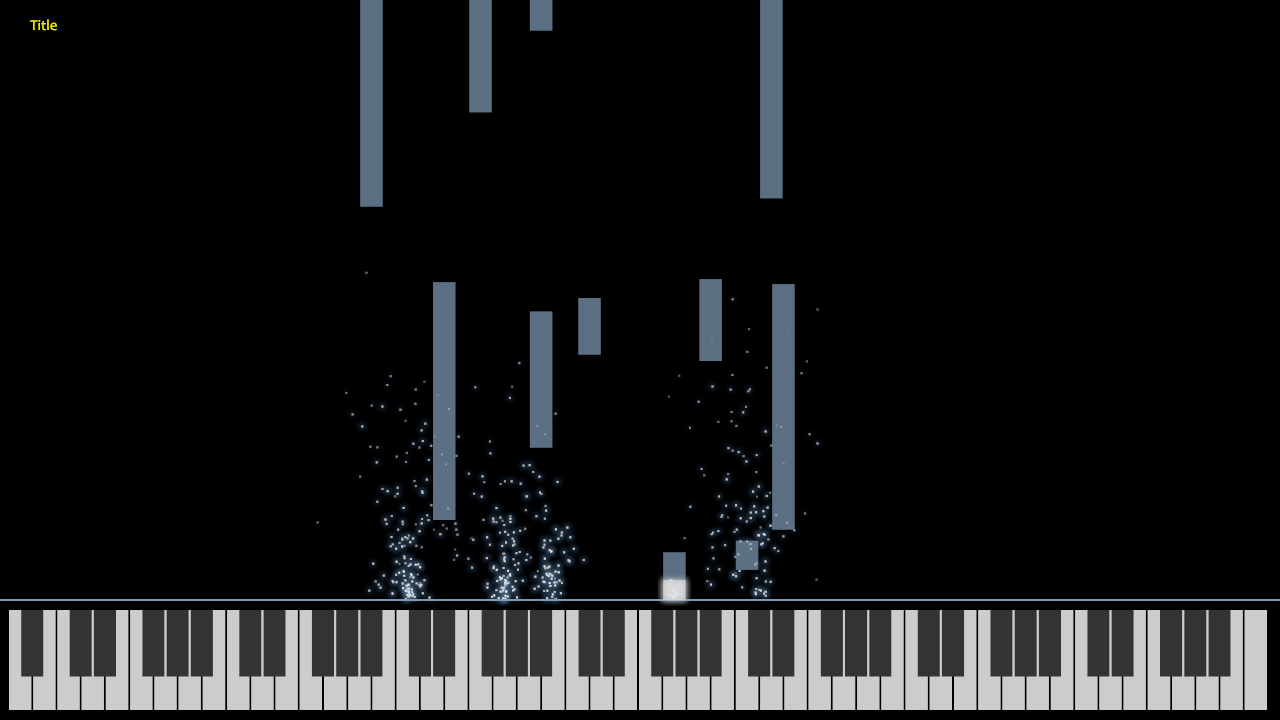
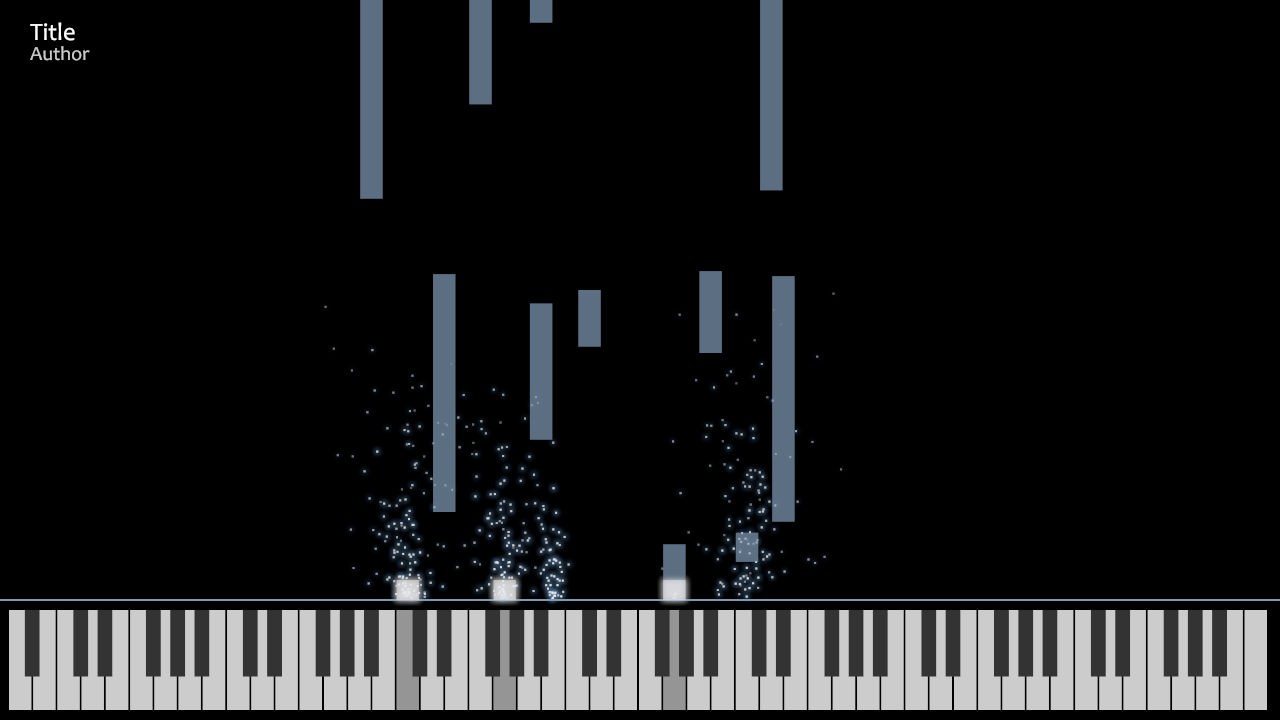
notes down

diff --git a/main_raster.cpp b/main_raster.cpp
@@ -16,17 +16,19 @@ using namespace v;
 
 
 
-void draw_board(Board &board, canvas_ity::canvas &context, float y, float height) {
-    context.set_color(canvas_ity::brush_type::fill_style, .8, .8, .8, 1);
+void draw_board(Board &board, canvas_ity::canvas &context, float y, float height, std::vector<int> & down) {
     for (uint8_t note = Board::note_lowest; note <= Board::note_highest; note++) {
+        bool isDown = std::find(down.begin(), down.end(), note) != down.end();
         if (Board::isWhite(note)) {
             float pos = board.getPos(note) - 1;
+            context.set_color(canvas_ity::brush_type::fill_style, .8, .8, .8, isDown ? .5: 1);
             context.fill_rectangle(pos, y, board.widthWhite - 2, height);
         }
     }
-    context.set_color(canvas_ity::brush_type::fill_style, .2, .2, .2, 1);
     for (uint8_t note = Board::note_lowest; note <= Board::note_highest; note++) {
+        bool isDown = std::find(down.begin(), down.end(), note) != down.end();
         if (!Board::isWhite(note)) {
+            context.set_color(canvas_ity::brush_type::fill_style, isDown?0:.2, isDown?0:.2, isDown?0:.2, 1);
             context.fill_rectangle(board.getPos(note) + (board.widthWhite*.15f) - 1, y, (board.widthWhite*.7f) - 2, (float) height / 1.5f);
         }
     }
@@ -34,11 +36,12 @@ void draw_board(Board &board, canvas_ity::canvas &context, float y, float height
 
 
 
-void
+std::vector<int>
 render_frame(Particles *particles, MidiData *md, Board &board, canvas_ity::canvas &context, int width, int height,
              int frame, int ratio = 25) {
 
     float t = static_cast<float>(frame) / static_cast<float>(ratio);
+    std::vector<int> notesDown;
 
 
     particles->update();
@@ -80,6 +83,7 @@ render_frame(Particles *particles, MidiData *md, Board &board, canvas_ity::canva
 
         if (contact) {
             length = bottomY - noteTop;
+            notesDown.push_back(touch.startMessage.note);
         }
 
         auto notePos = board.getPos(touch.startMessage.note);
@@ -107,14 +111,7 @@ render_frame(Particles *particles, MidiData *md, Board &board, canvas_ity::canva
             }
         }
     }
-
-    char name[255] = {};
-    sprintf(name, "../files/out-%d.png", frame);
-
-    auto *image = new unsigned char[height * width * 4];
-    context.get_image_data(image, width, height, width * 4, 0, 0);
-    stbi_write_png(name, width, height, 4, image, width * 4);
-    delete[] image;
+    return notesDown;
 
 }
 
@@ -140,6 +137,7 @@ int main() {
     board.buildPos();
 
     const int frameRate = 25;
+    char name[255] = {};
 
     int is = 0; int ie = 7 * frameRate;
     for (int i = is; i < ie; i++) {
@@ -152,8 +150,14 @@ int main() {
         context.set_color(canvas_ity::brush_type::fill_style, .8, .8, .8, 1);
         context.set_font(font.data, font.size, 20);
         context.fill_text("Author", 30, 40 + 20);
-        draw_board(board, context, height - 110, 100);
-        render_frame(&particles, &md, board, context, width, height, i, frameRate);
+        auto downNotes = render_frame(&particles, &md, board, context, width, height, i, frameRate);
+        draw_board(board, context, height - 110, 100, downNotes);
+
+        sprintf(name, "../files/out-%d.png", i);
+        auto *image = new unsigned char[height * width * 4];
+        context.get_image_data(image, width, height, width * 4, 0, 0);
+        stbi_write_png(name, width, height, 4, image, width * 4);
+        delete[] image;
     }
 
     char cmd[512] = {};

diff --git a/README.md b/README.md
@@ -15,3 +15,14 @@ cd build
 cmake ..
 make
 ```
+
+Usage:
+
+* Record the instrument
+  ```shell
+  ./midic
+  ```
+* Generate video
+  ```shell
+  ./midic_raster
+  ``` 
